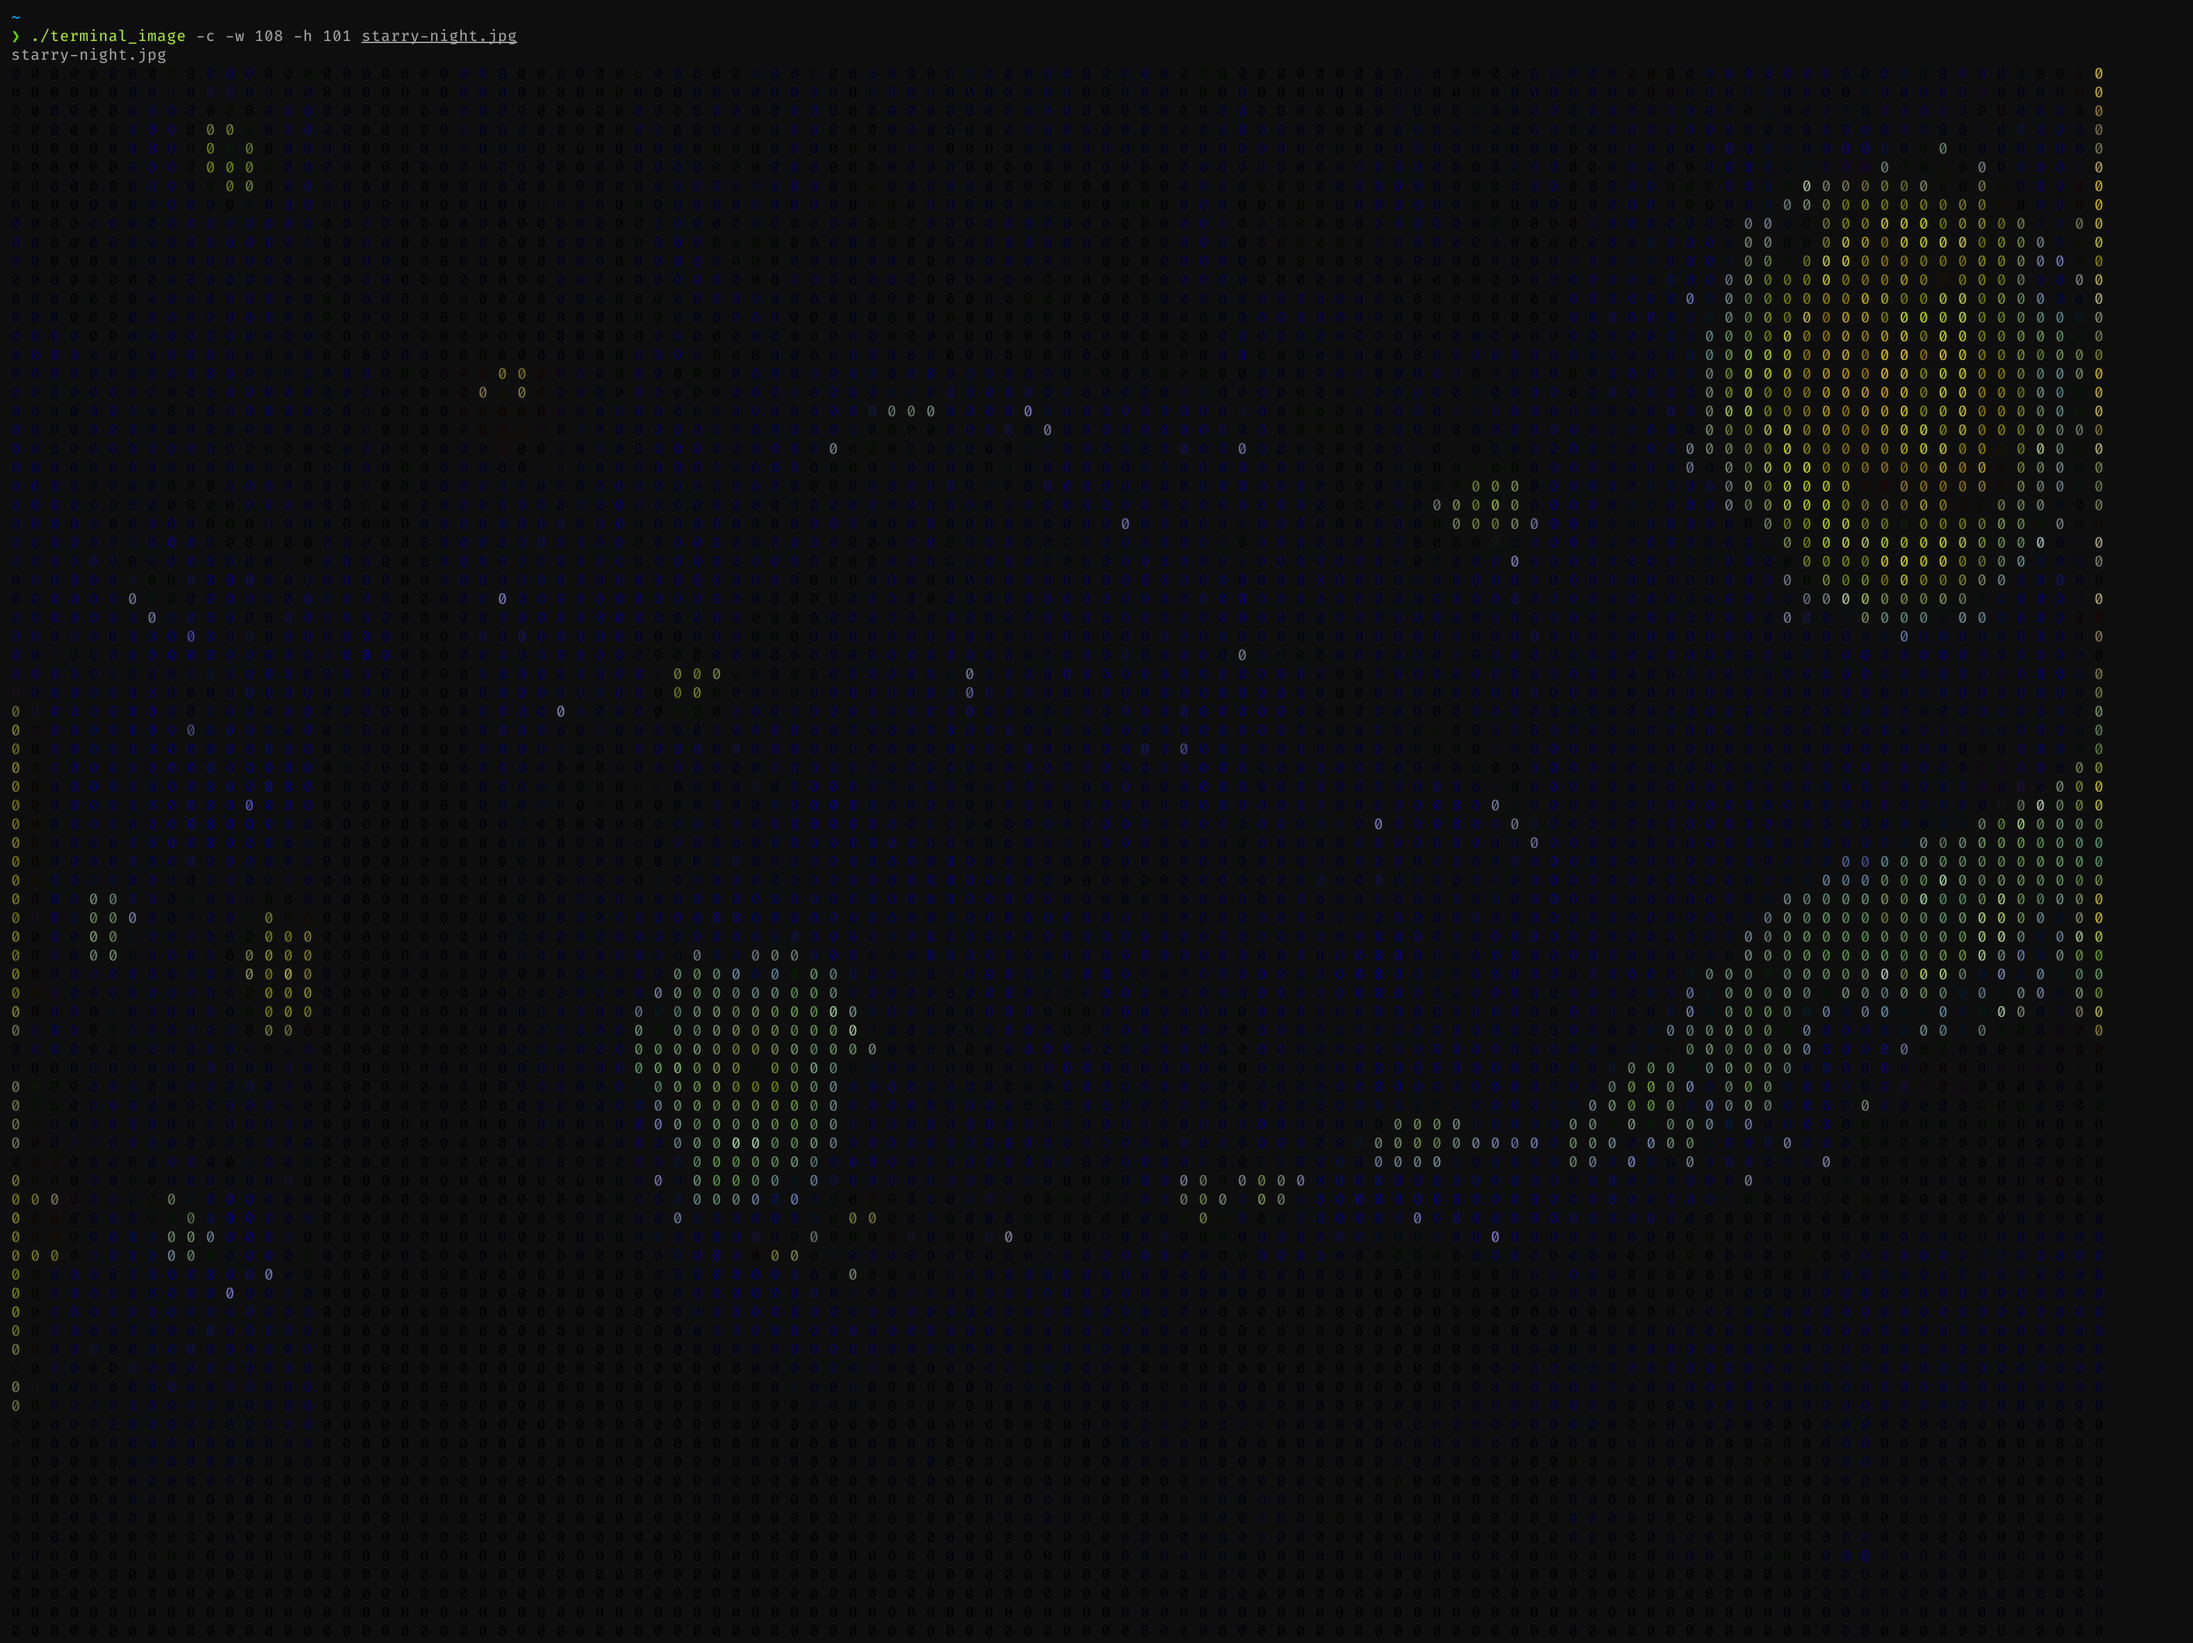
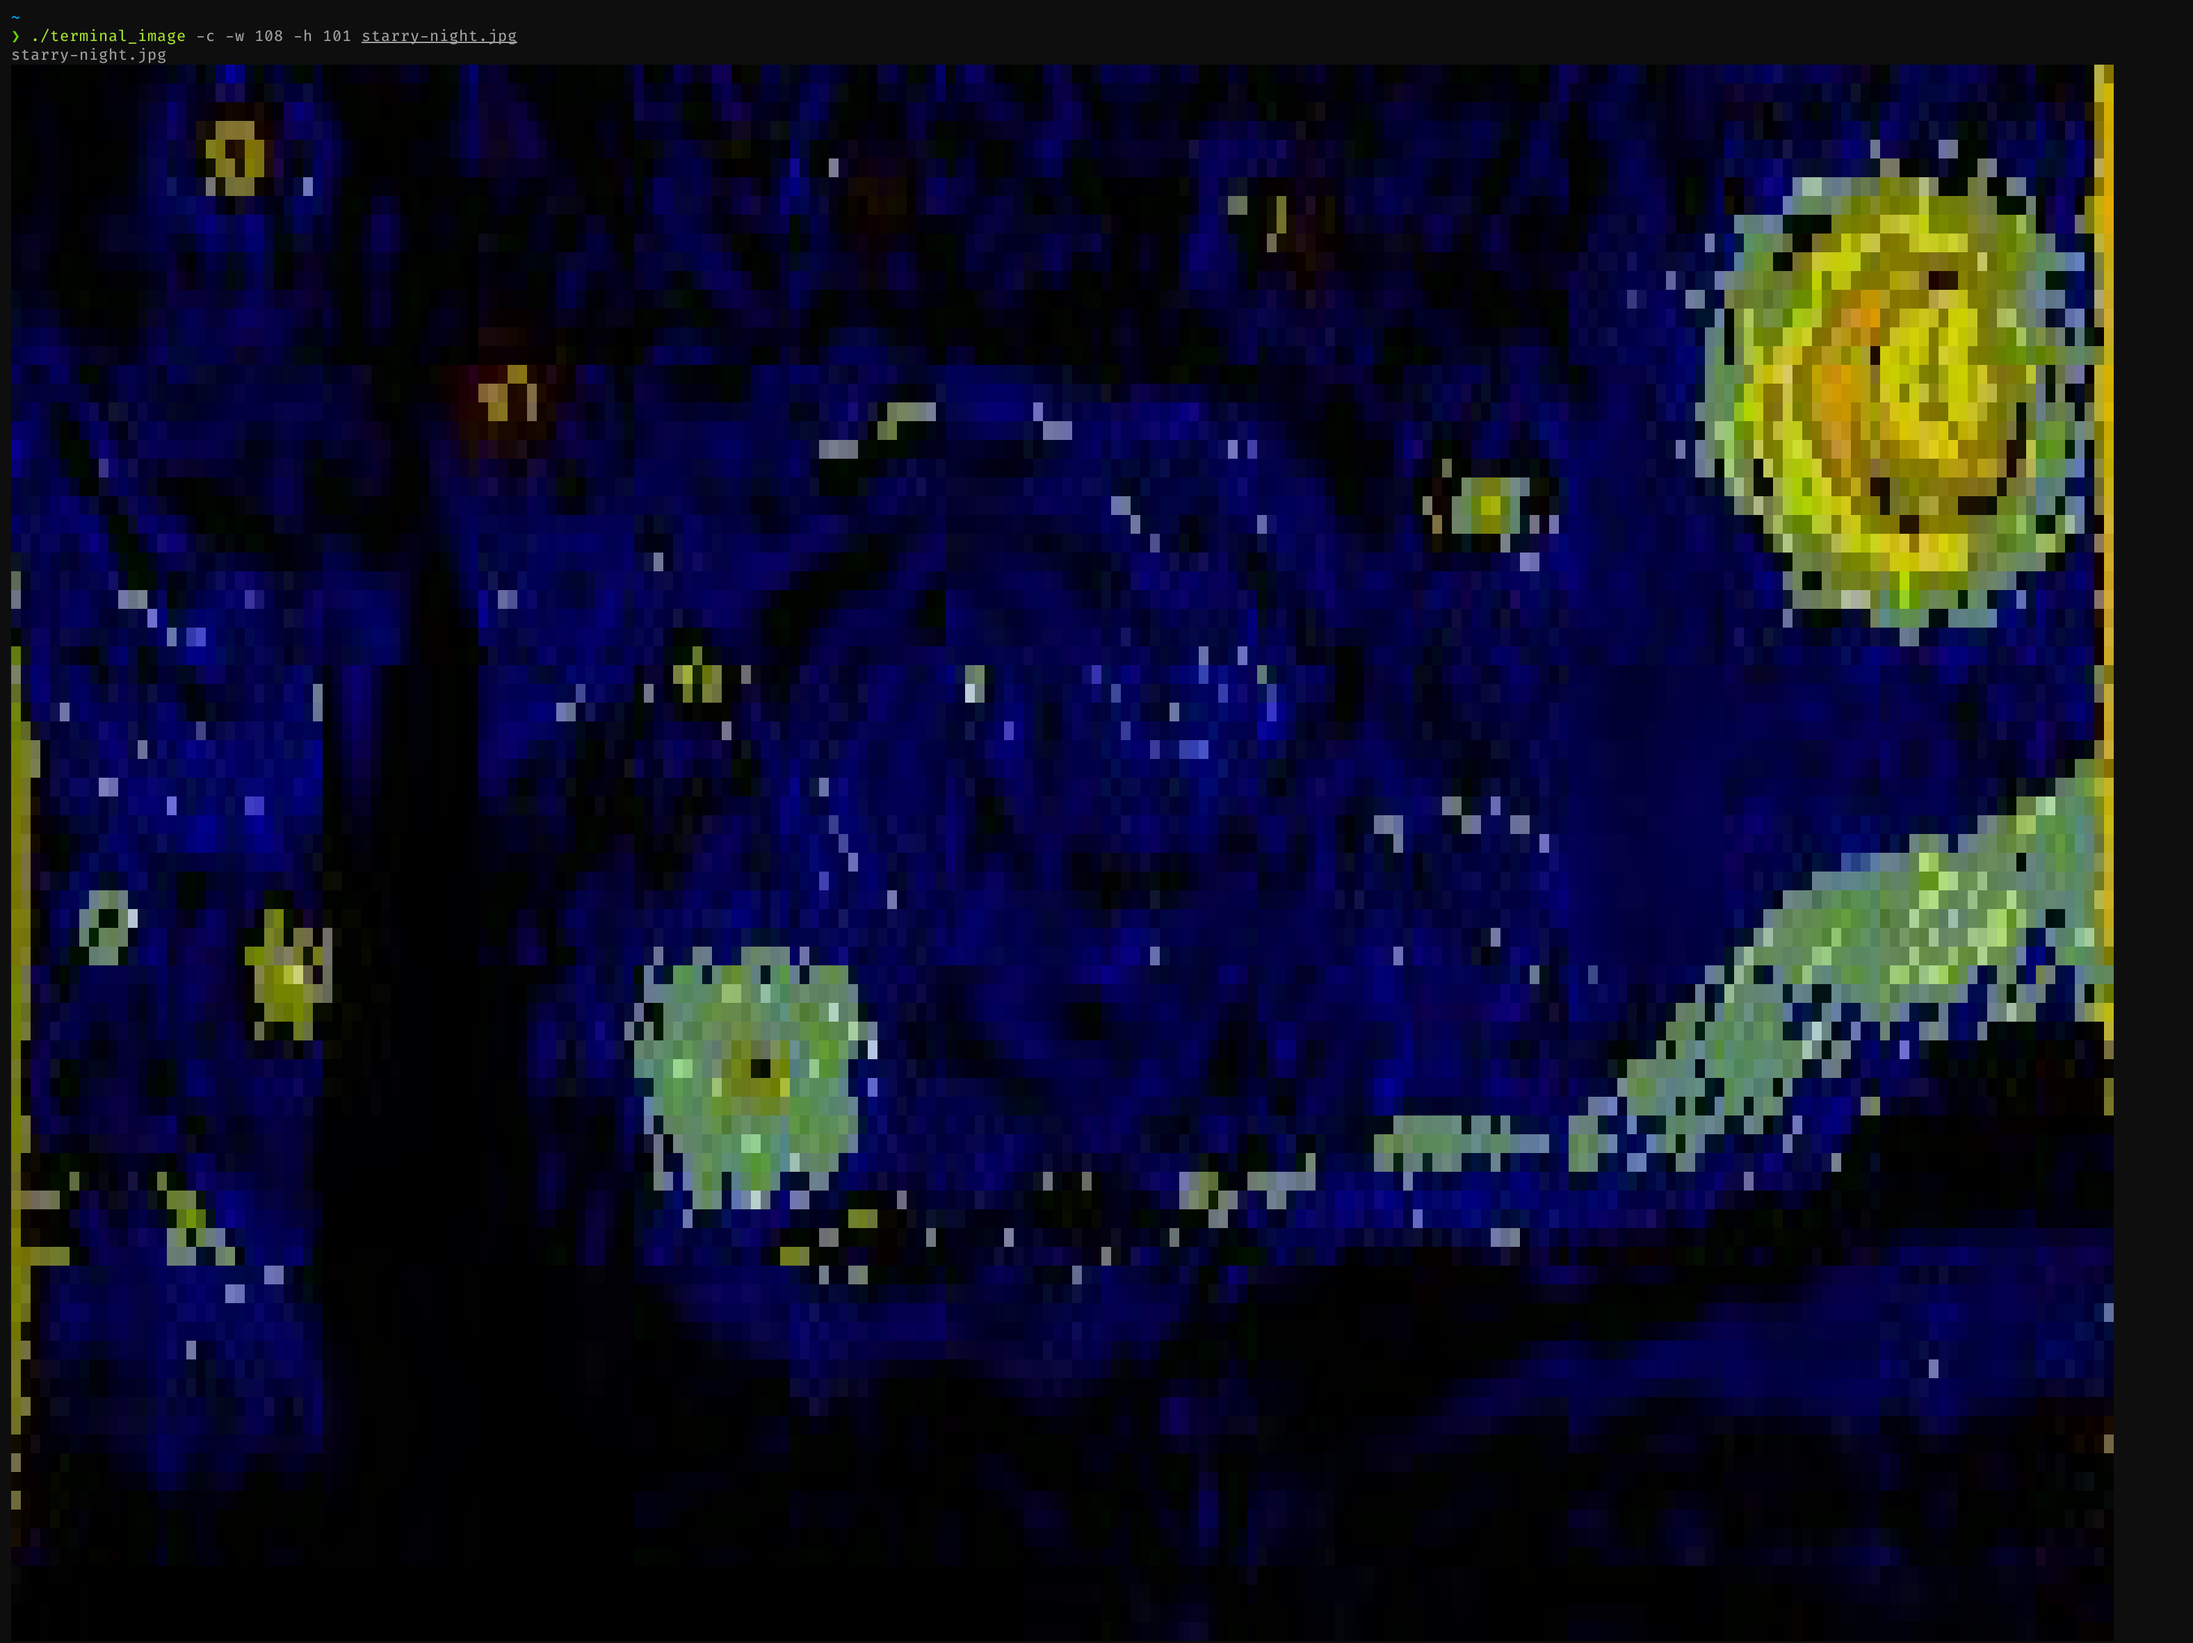
also change background color in color mode

diff --git a/src/main.c b/src/main.c
@@ -31,7 +31,7 @@ int main (int argc, char *argv[]){
   while ((i = getopt (argc, argv, ":w:h::c")) != -1){
     switch (i){
       case 'w':
-        width = atoi(optarg);
+        width = atoi(optarg) * 2;
         break;
       case 'h':
         height = atoi(optarg);
@@ -155,7 +155,7 @@ unsigned char * get_image_pixels(char *colorspace, char *image){
 
 int display_image(int width, int height, char *colorspace, unsigned char *buffer){
   if (strcmp(colorspace, "color") == 0){
-      // True Color ANSI code
+      // truecolor ANSI code
       int red = 0;
       int green = 0;
       int blue = 0;
@@ -170,10 +170,13 @@ int display_image(int width, int height, char *colorspace, unsigned char *buffer
         red = buffer[i-1];
         green = buffer[i];
         blue = buffer[i+1];
-        text = "0 ";
+        text = "0";
 
         // print truecolor string with the current pixel's RGB value
-        printf("\x1b[38;2;%d;%d;%dm%s\x1b[0m", red, green, blue, text);
+        // '\x1b[48;2;%d;%d;%dm' sets the background color 
+        // '\x1b[38;2;%d;%d;%dm%s' sets the foreground color
+        // '\x1b[0m' resets all colors
+        printf("\x1b[48;2;%d;%d;%dm\x1b[38;2;%d;%d;%dm%s\x1b[0m", red, green, blue, red, green, blue, text);
          
         x++; 
         if(x%width == 0 && x!=pixels){
@@ -198,13 +201,13 @@ int display_image(int width, int height, char *colorspace, unsigned char *buffer
           // if the current pixel is darker than the threshold replace it with a red '0'
           buffer[i-1] = 0;
           printf("%s", red);
-          printf("%d ", buffer[i-1]);
+          printf("%d", buffer[i-1]);
           printf("%s", reset);
         } else {
           // if the current pixel is lighter than the threshold replace it with a green '1'
           buffer[i-1] = 1;
           printf("%s", green);
-          printf("%d ", buffer[i-1]);
+          printf("%d", buffer[i-1]);
           printf("%s", reset);
         }
         if(i%width == 0 && i!=pixels){

diff --git a/README.md b/README.md
@@ -1,5 +1,6 @@
 # Terminal Image
 
+![Example output using a color table image](docs/images/example_color-table.png)
 ![Example output using an image of Mona Lisa](docs/images/example_mona-lisa.png)
 ![Example output using an image of Starry Night](docs/images/example_starry-night.png)
 
